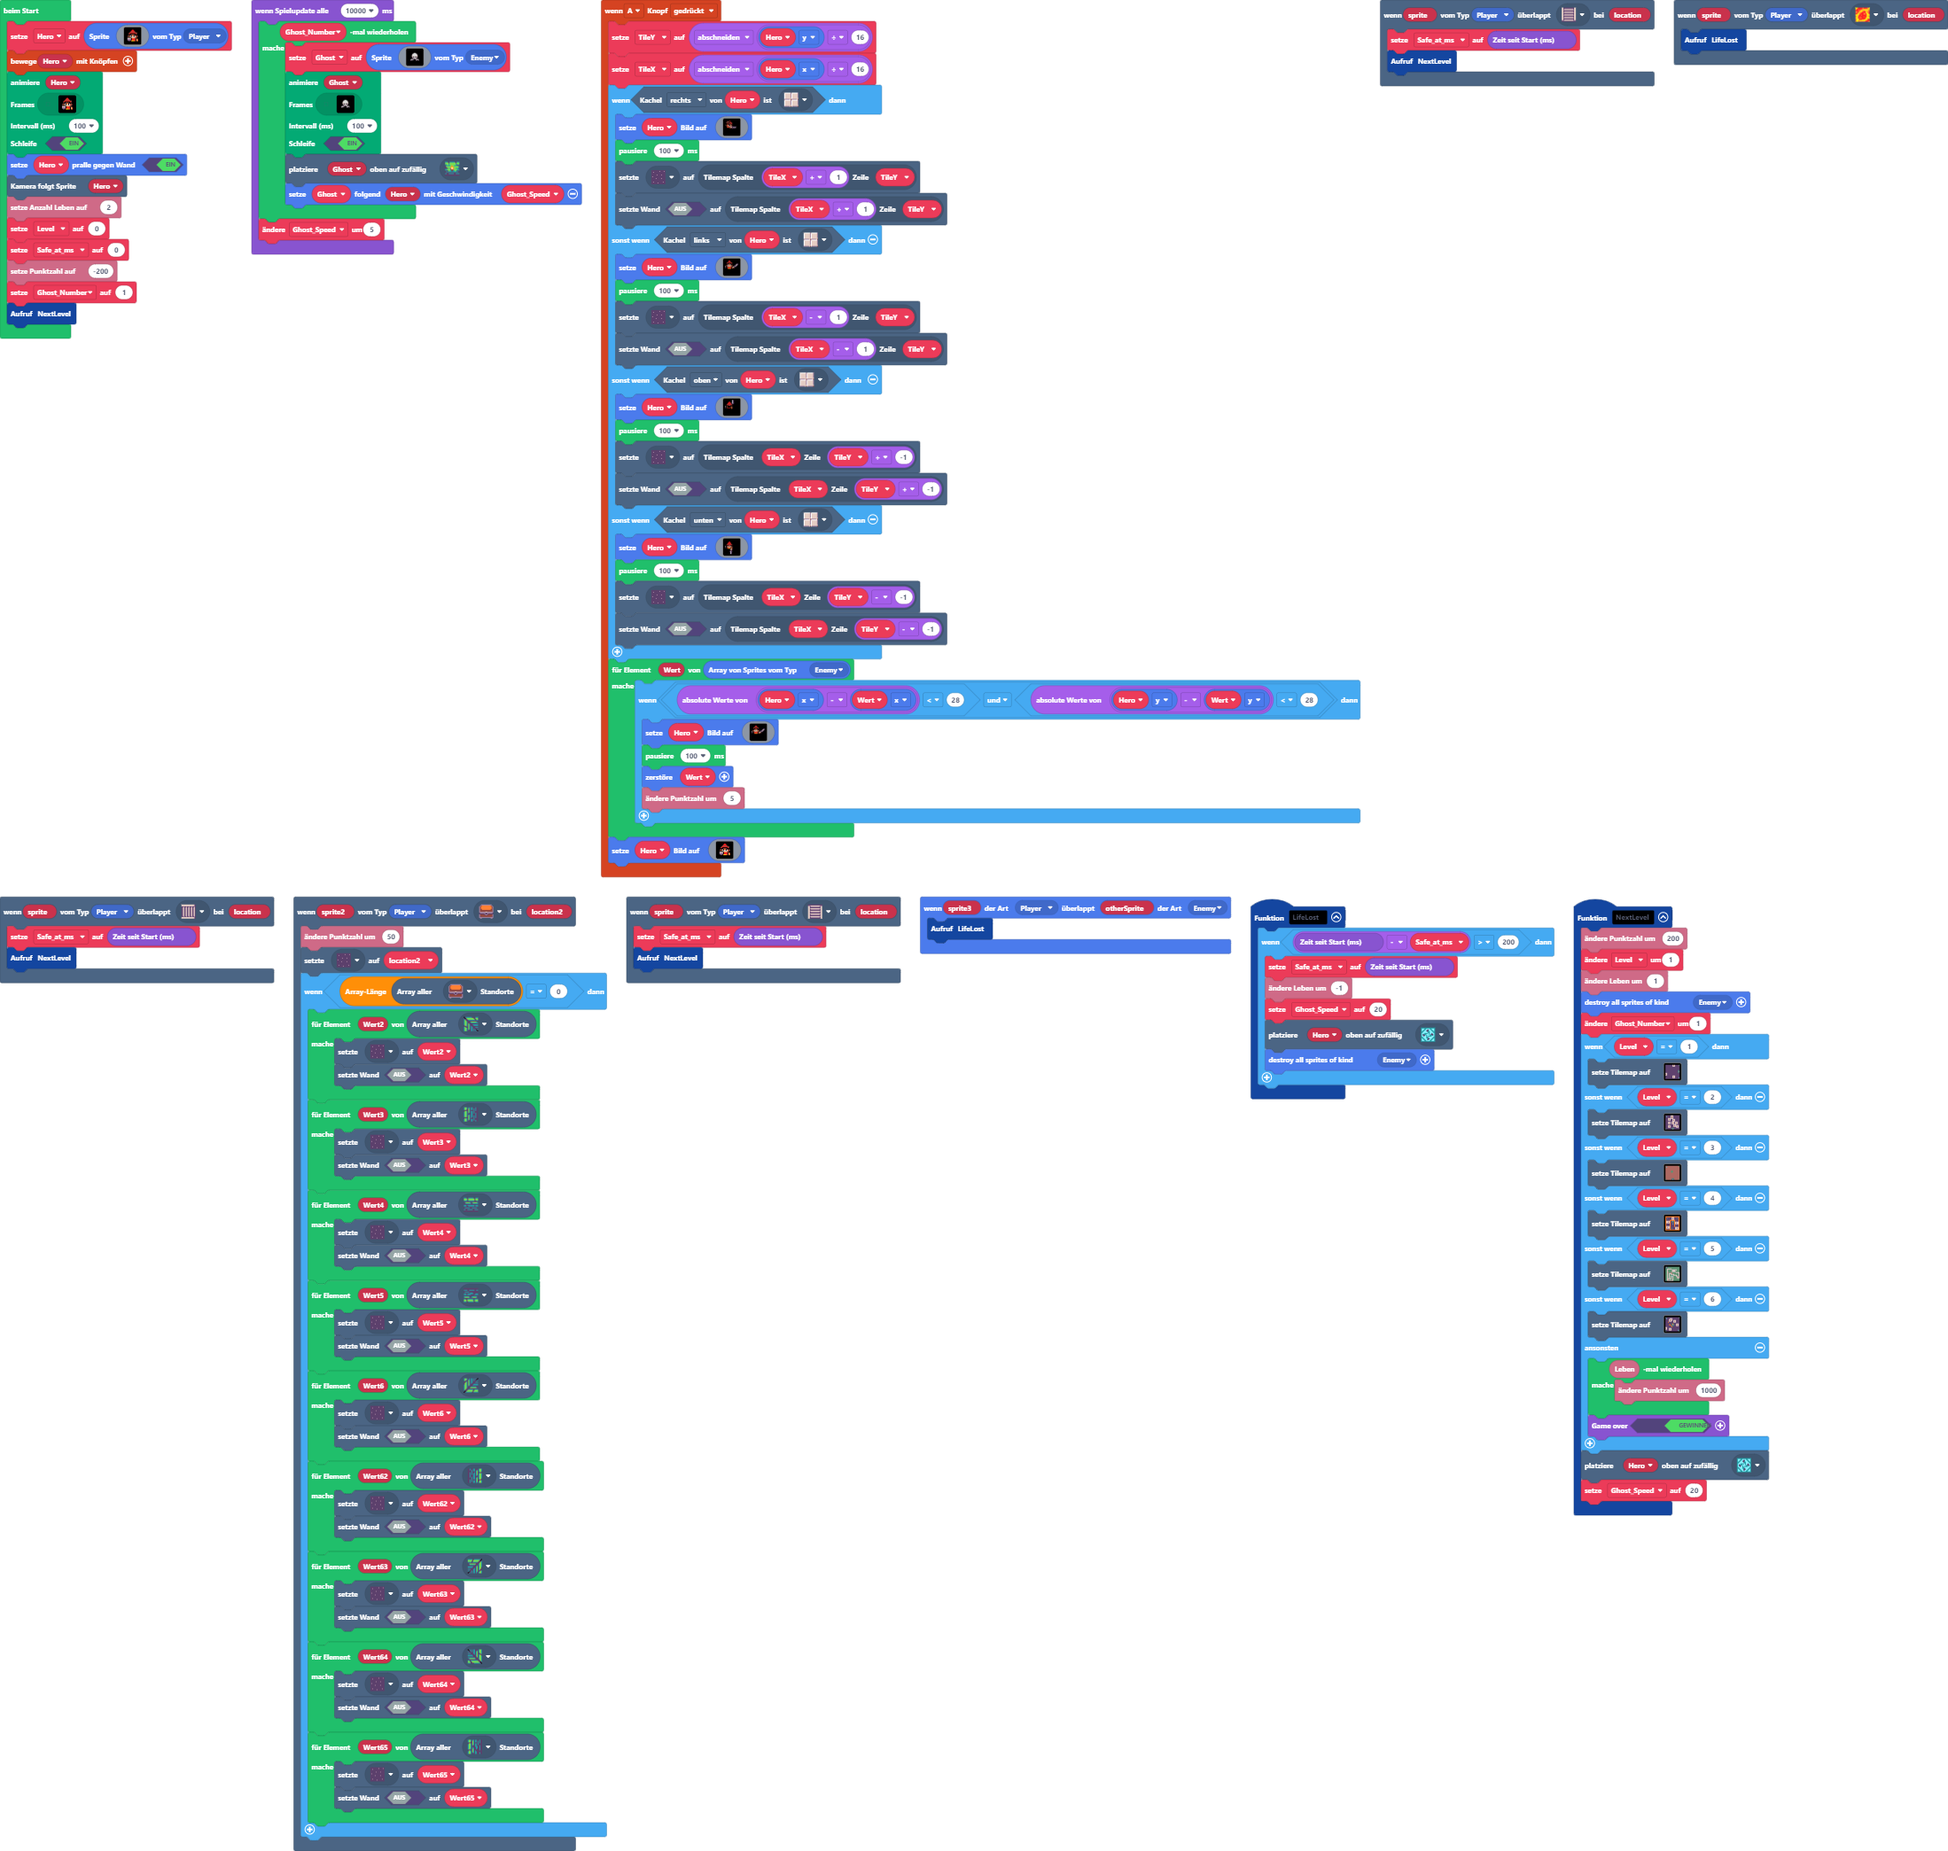
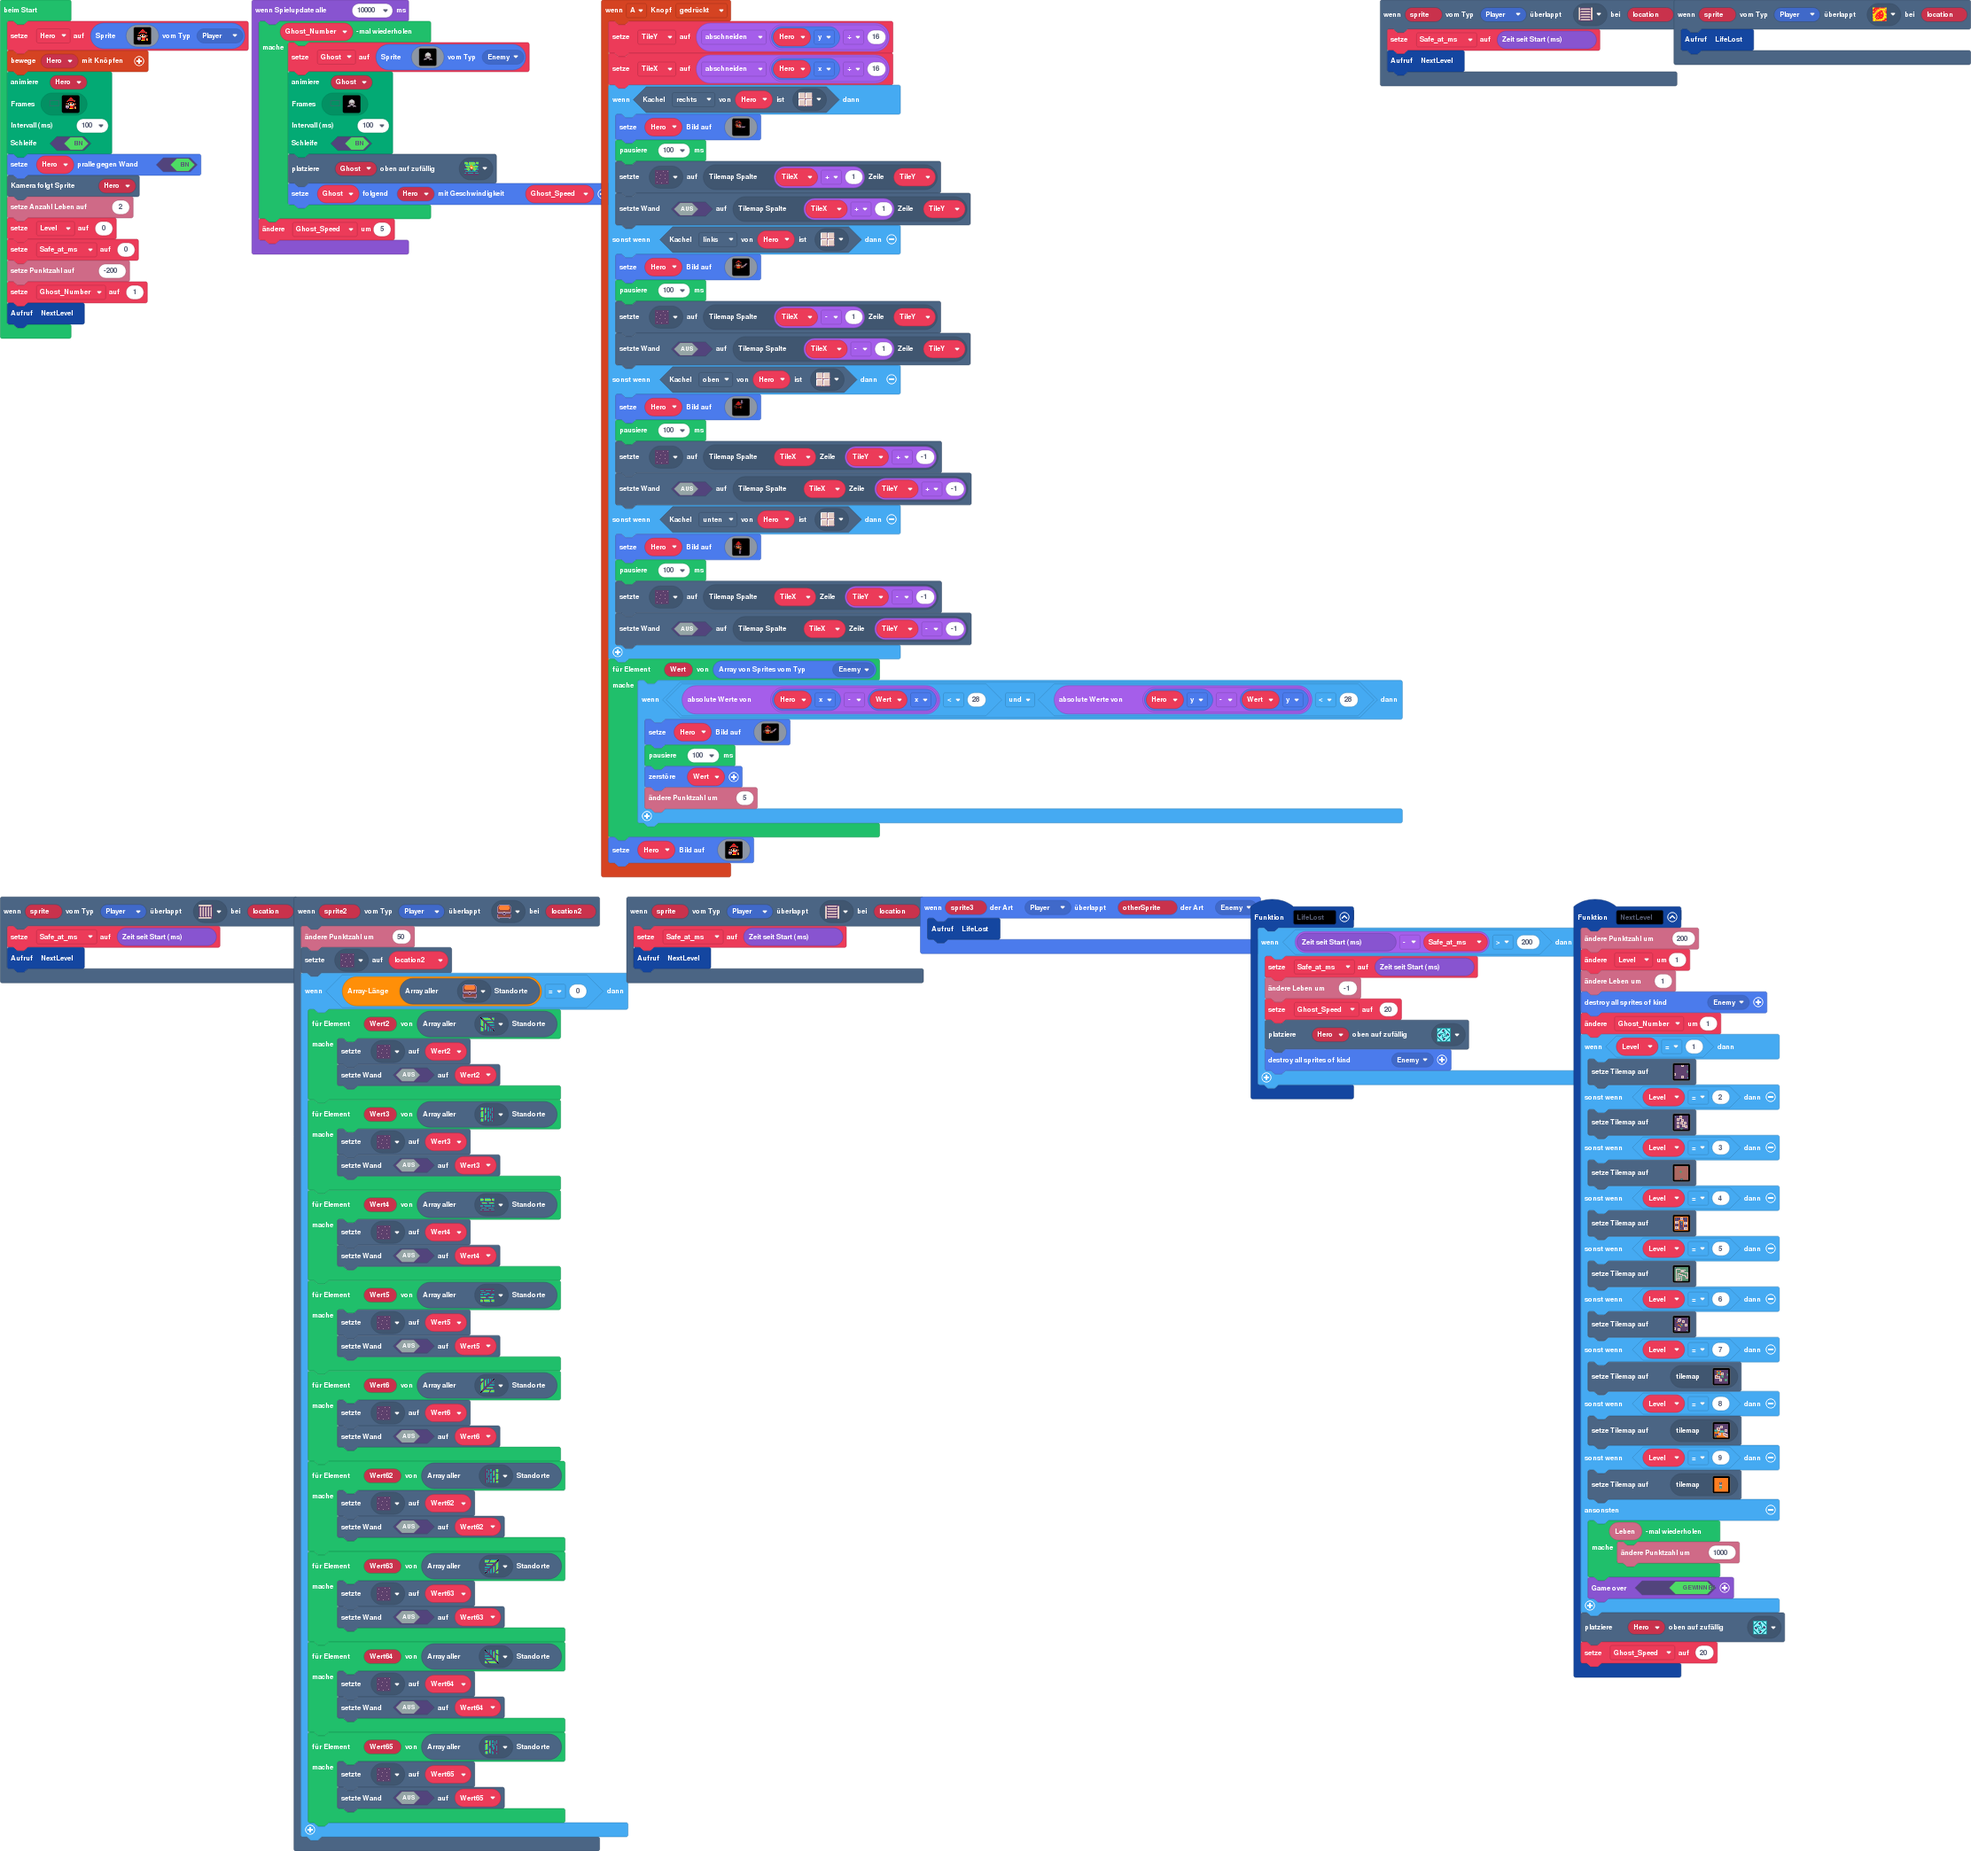
Aktualisiere main.blocks, main.ts, tilemap.g.jres, tilemap.g.ts

diff --git a/tilemap.g.ts b/tilemap.g.ts
@@ -254,25 +254,6 @@ namespace myTiles {
 . . . . . . . . . . . . . . . . 
 . . . . . . . . . . . . . . . . 
 `, [myTiles.transparency16,sprites.dungeon.darkGroundCenter,sprites.dungeon.chestClosed,sprites.dungeon.floorLight0,sprites.dungeon.collectibleInsignia,sprites.dungeon.greenOuterNorth2,sprites.dungeon.stairWest,sprites.dungeon.greenOuterNorthWest,sprites.dungeon.greenOuterNorth0,sprites.dungeon.greenOuterWest1,sprites.dungeon.greenOuterSouthEast,sprites.dungeon.greenOuterSouth0,sprites.dungeon.hazardLava0], TileScale.Sixteen);
-            case "Level13":
-            case "Level13":return tiles.createTilemap(hex`1000100000000000000000000000000000000000000000000000000000000000000000000000000000000000000000000000000000000000000000000000000000000000000000000000000000000000000000000000000000000000000000000000000000000000000000000000000000000000000000000000000000000000000000000000000000000000000000000000000000000000000000000000000000000000000000000000000000000000000000000000000000000000000000000000000000000000000000000000000000000000000000000000000000000000000000000000000000000000000000000000000000000000000000000000000000000000`, img`
-. . . . . . . . . . . . . . . . 
-. . . . . . . . . . . . . . . . 
-. . . . . . . . . . . . . . . . 
-. . . . . . . . . . . . . . . . 
-. . . . . . . . . . . . . . . . 
-. . . . . . . . . . . . . . . . 
-. . . . . . . . . . . . . . . . 
-. . . . . . . . . . . . . . . . 
-. . . . . . . . . . . . . . . . 
-. . . . . . . . . . . . . . . . 
-. . . . . . . . . . . . . . . . 
-. . . . . . . . . . . . . . . . 
-. . . . . . . . . . . . . . . . 
-. . . . . . . . . . . . . . . . 
-. . . . . . . . . . . . . . . . 
-. . . . . . . . . . . . . . . . 
-`, [myTiles.transparency16], TileScale.Sixteen);
             case "Level_8":
[1 lines of base64/hex data omitted]
 . . . . . . . . . . . . . . . . 
@@ -292,6 +273,44 @@ namespace myTiles {
 2 2 2 . . . . . . . . . . 2 2 2 
 2 . 2 . . . . . . . . . . . . . 
 `, [myTiles.transparency16,sprites.dungeon.darkGroundCenter,sprites.dungeon.collectibleInsignia,sprites.dungeon.chestClosed,sprites.dungeon.floorLight0,sprites.dungeon.greenOuterNorthWest,sprites.dungeon.greenOuterNorth0,sprites.dungeon.greenOuterNorthEast,sprites.dungeon.greenOuterWest1,sprites.dungeon.stairNorth,sprites.dungeon.greenOuterNorth2,sprites.dungeon.greenOuterEast0,sprites.dungeon.hazardLava0], TileScale.Sixteen);
+            case "Level14":
+            case "Level14":return tiles.createTilemap(hex`1000100000000000000000000000000000000000000000000000000000000000000000000000000000000000000000000000000000000000000000000000000000000000000000000000000000000000000000000000000000000000000000000000000000000000000000000000000000000000000000000000000000000000000000000000000000000000000000000000000000000000000000000000000000000000000000000000000000000000000000000000000000000000000000000000000000000000000000000000000000000000000000000000000000000000000000000000000000000000000000000000000000000000000000000000000000000000`, img`
+. . . . . . . . . . . . . . . . 
+. . . . . . . . . . . . . . . . 
+. . . . . . . . . . . . . . . . 
+. . . . . . . . . . . . . . . . 
+. . . . . . . . . . . . . . . . 
+. . . . . . . . . . . . . . . . 
+. . . . . . . . . . . . . . . . 
+. . . . . . . . . . . . . . . . 
+. . . . . . . . . . . . . . . . 
+. . . . . . . . . . . . . . . . 
+. . . . . . . . . . . . . . . . 
+. . . . . . . . . . . . . . . . 
+. . . . . . . . . . . . . . . . 
+. . . . . . . . . . . . . . . . 
+. . . . . . . . . . . . . . . . 
+. . . . . . . . . . . . . . . . 
+`, [myTiles.transparency16], TileScale.Sixteen);
+            case "Level_9":
[1 lines of base64/hex data omitted]
+. . . . . . . . . . . . . . . . 
+. . . . . . . . . . . . . . . . 
+. . . . . . . . . . . . . . . . 
+. . . . . . . . . . . . . . . . 
+. . . . . . . . . . . . . . . . 
+. . . . . . . . . . . . . . . . 
+. . . . . . 2 2 2 . . . . . . . 
+. . . . . . . . . . . . . . . . 
+. . . . . . 2 2 2 . . . . . . . 
+. . . . . . . . . . . . . . . . 
+. . . . . . . . . . . . . . . . 
+. . . . . . . . . . . . . . . . 
+. . . . . . . . . . . . . . . . 
+. . . . . . . . . . . . . . . . 
+. . . . . . . . . . . . . . . . 
+. . . . . . . . . . . . . . . . 
+`, [myTiles.transparency16,sprites.dungeon.hazardLava0,sprites.dungeon.darkGroundCenter,sprites.dungeon.greenOuterSouthWest,sprites.dungeon.greenOuterSouth0,sprites.dungeon.greenOuterSouthEast,sprites.dungeon.stairSouth,sprites.dungeon.greenOuterNorth2,sprites.dungeon.collectibleInsignia,sprites.dungeon.chestClosed,sprites.dungeon.floorLight0], TileScale.Sixteen);
         }
         return null;
     })

diff --git a/main.ts b/main.ts
@@ -119,6 +119,8 @@ function NextLevel () {
         tiles.setCurrentTilemap(tilemap`Level_7`)
     } else if (Level == 8) {
         tiles.setCurrentTilemap(tilemap`Level_8`)
+    } else if (Level == 9) {
+        tiles.setCurrentTilemap(tilemap`Level_9`)
     } else {
         for (let index = 0; index < info.life(); index++) {
             info.changeScoreBy(1000)
